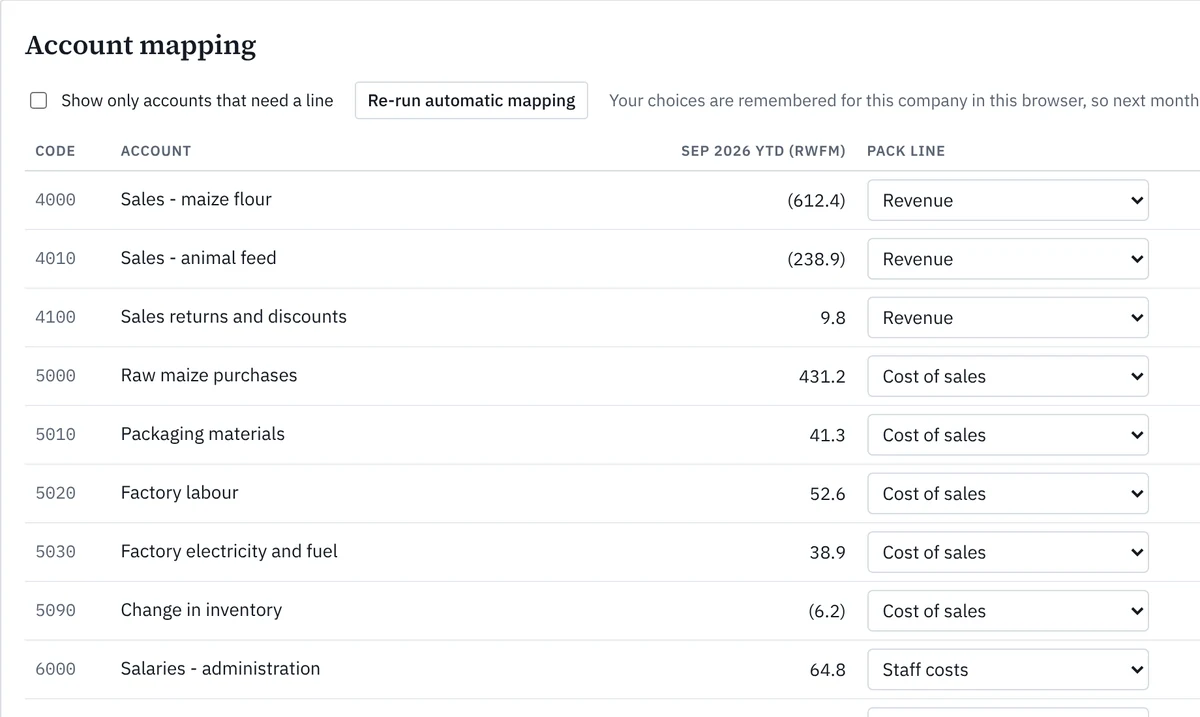
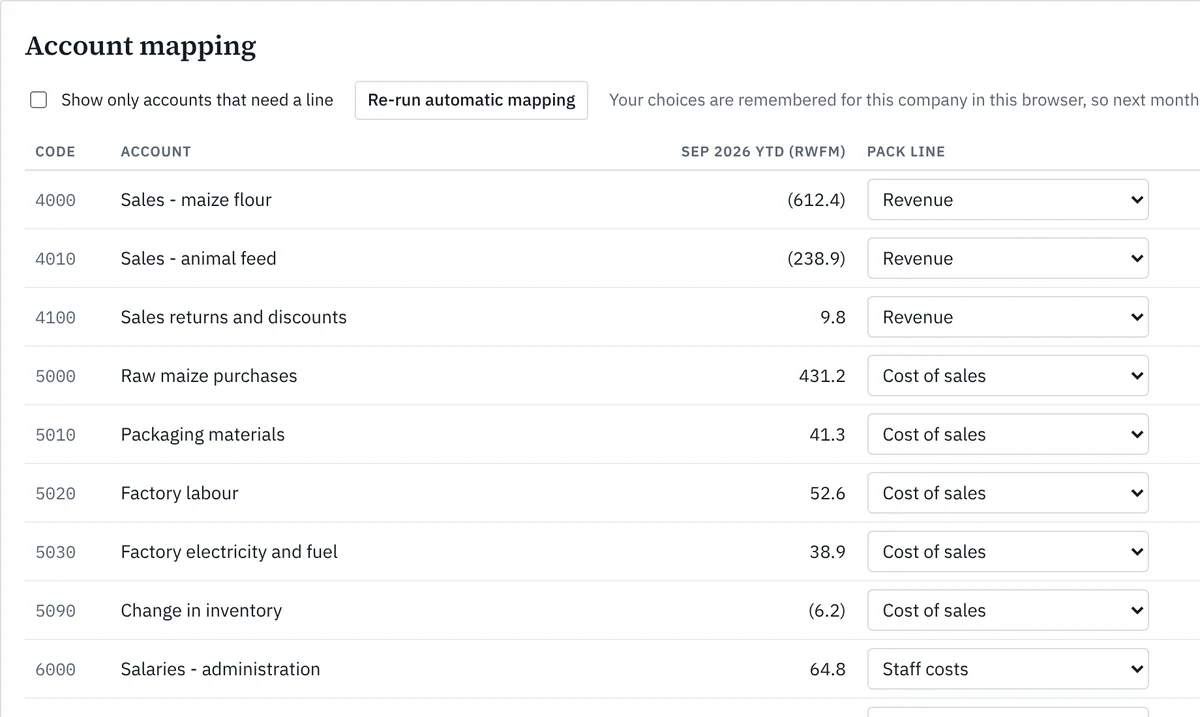
Remove the owner's name from the site
Home, manual and payment screen no longer show a personal name; screenshots and example pages are retaken with a generic reviewer.

Claude-Session: https://claude.ai/code/session_01Qo2BPyBdZYjMbBFNcNoo1x

diff --git a/index.html b/index.html
@@ -736,7 +736,7 @@ table.lines.lg-rows input, table.lines.lg-rows select { width: 100%; padding: 6p
             <button class="btn big" type="button" data-ws="sample">See the example report</button>
           </div>
           <p class="fp-note">Free for 30 days on this device, with no sign-up and no card. Then RWF 20,000 a month per company. <button class="linkish" type="button" data-goto-pricing>Pricing</button></p>
-          <p class="fp-note">Built and supported in Kigali by Anicet Safari, CPA (R). Questions go to him on <a href="https://wa.me/250784551341?text=Hello%2C%20I%20would%20like%20to%20know%20more%20about%20Acivaz." target="_blank" rel="noopener">WhatsApp</a>.</p>
+          <p class="fp-note">Built and supported in Kigali. Ask a question on <a href="https://wa.me/250784551341?text=Hello%2C%20I%20would%20like%20to%20know%20more%20about%20Acivaz." target="_blank" rel="noopener">WhatsApp</a>.</p>
         </div>
         <figure class="fp-pages">
           <div class="fp-stack">
@@ -773,11 +773,11 @@ table.lines.lg-rows input, table.lines.lg-rows select { width: 100%; padding: 6p
             <figcaption><b>Map.</b> Acivaz suggests a line for each account and remembers your choices for that client.</figcaption>
           </figure>
           <figure>
-            <img src="screen-review.webp" width="1000" height="910" alt="The review checklist: four checks done by Acivaz and the items a reviewer confirms" loading="lazy">
+            <img src="screen-review.webp" width="1000" height="911" alt="The review checklist: four checks done by Acivaz and the items a reviewer confirms" loading="lazy">
             <figcaption><b>Review.</b> The checks Acivaz runs itself, and the ones a reviewer confirms before the period is finalised.</figcaption>
           </figure>
           <figure class="fp-wide">
-            <img src="screen-export.webp" width="1600" height="682" alt="The Export screen with download buttons and a list of report versions" loading="lazy">
+            <img src="screen-export.webp" width="1600" height="659" alt="The Export screen with download buttons and a list of report versions" loading="lazy">
             <figcaption><b>Export.</b> PDF and Excel. Each download is kept as a version, with the period's status at the time.</figcaption>
           </figure>
         </div>
@@ -1560,7 +1560,7 @@ table.lines.lg-rows input, table.lines.lg-rows select { width: 100%; padding: 6p
             <p>Everything on screen is free. On the public website, each device gets a 30-day free trial with unlimited PDF and Excel downloads for any company, counted from the first visit. The footer shows how many days are left. Book backups are always free.</p>
             <p>After the trial, downloads are paid <strong>per company</strong>: RWF 20,000 a month for each company you download reports for, whatever the number of downloads. <strong>Founding price:</strong> the first 20 paying customers pay RWF 10,000 a month per company, fixed for 12 months. Accountants with 5 or more client companies pay RWF 15,000 for each.</p>
             <ol>
-              <li>Pay by MTN MoMo to <strong>0784 551 341</strong> (Anicet Safari) for each company you need.</li>
+              <li>Pay by MTN MoMo to <strong>0784 551 341</strong> for each company you need.</li>
               <li>Send the <strong>company ID</strong>, shown on the payment screen, and the <strong>MoMo transaction ID</strong> on WhatsApp to the same number. The <strong>Open WhatsApp</strong> button writes the message for you, with the company name.</li>
               <li>Paste the unlock code you receive into the payment screen and press <strong>Unlock</strong>.</li>
             </ol>
@@ -1755,7 +1755,7 @@ table.lines.lg-rows input, table.lines.lg-rows select { width: 100%; padding: 6p
     <div class="pw-founding"><strong>Founding price: RWF 10,000 a month per company.</strong> The first 20 paying customers pay half price, fixed for 12 months. From 5 companies, each costs RWF 15,000.</div>
     <p style="margin:10px 0 0">This download is for <strong id="pw-co"></strong>.</p>
     <ol class="pw-steps">
-      <li><strong>Pay by MTN MoMo</strong> to Anicet Safari: RWF 10,000 per company at the founding price while places last, then RWF 20,000.
+      <li><strong>Pay by MTN MoMo</strong> to 0784 551 341: RWF 10,000 per company at the founding price while places last, then RWF 20,000.
         <div class="pw-line"><span class="pw-big">0784 551 341</span><button class="btn small" type="button" data-copy="0784551341">Copy number</button></div></li>
       <li><strong>Send the company ID and the MoMo transaction ID</strong> on WhatsApp to the same number.
         <div class="pw-line"><span class="pw-big" id="pw-dev"></span><button class="btn small" type="button" id="pw-copy-dev">Copy ID</button><a class="btn small" id="pw-wa" href="https://wa.me/250784551341" target="_blank" rel="noopener">Open WhatsApp</a></div></li>

diff --git a/sw.js b/sw.js
@@ -1,5 +1,5 @@
 // Acivaz offline cache. Bump VERSION when you publish changes.
-const VERSION = "acivaz-v31";
+const VERSION = "acivaz-v32";
 const SHELL = [
   "./", "index.html", "manifest.webmanifest",
   "icon-192.png", "icon-512.png", "icon-maskable-512.png", "apple-touch-icon.png", "favicon-32.png",
